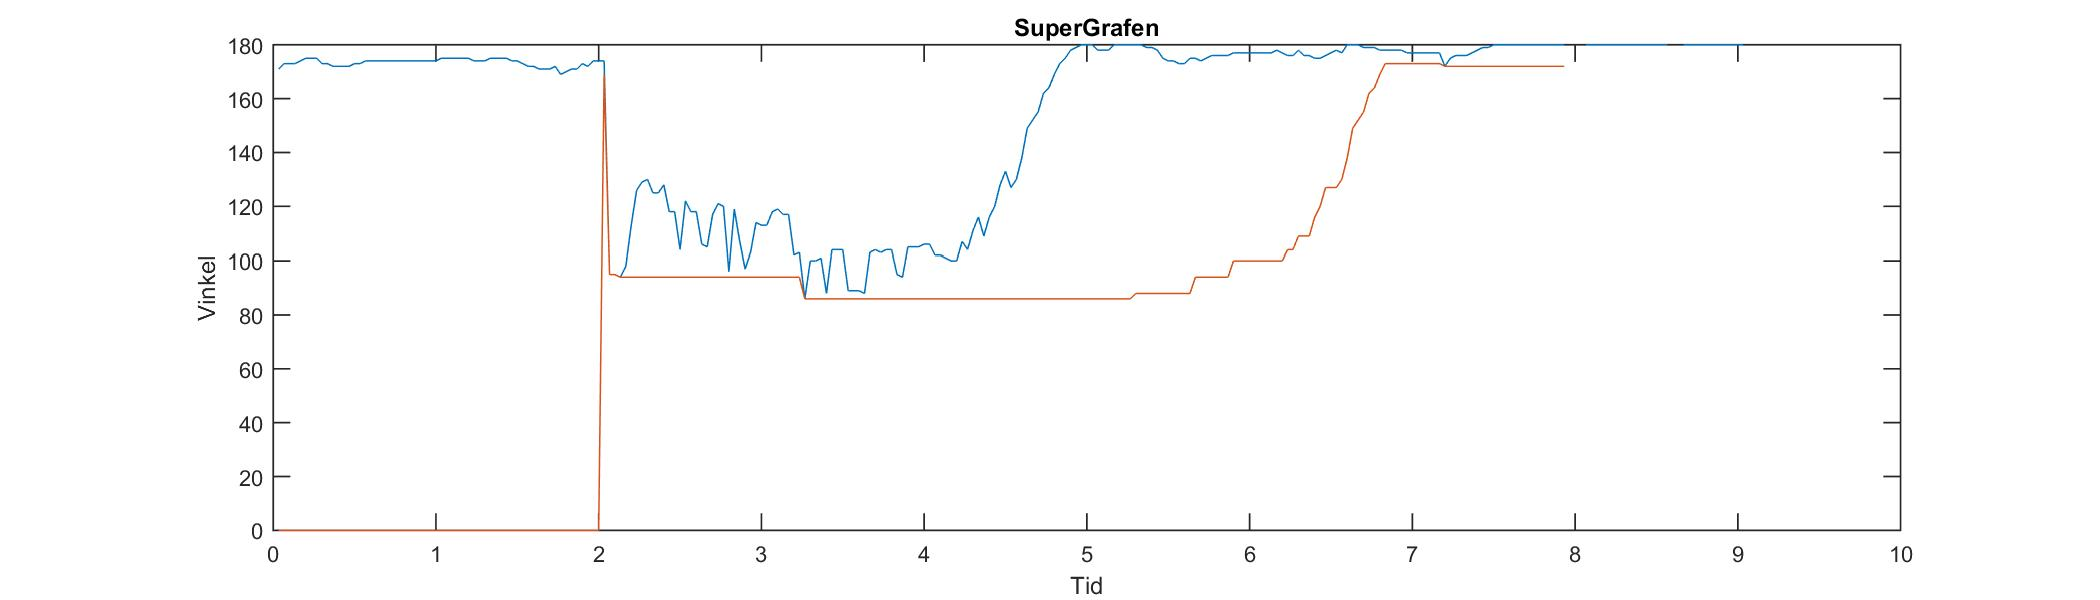
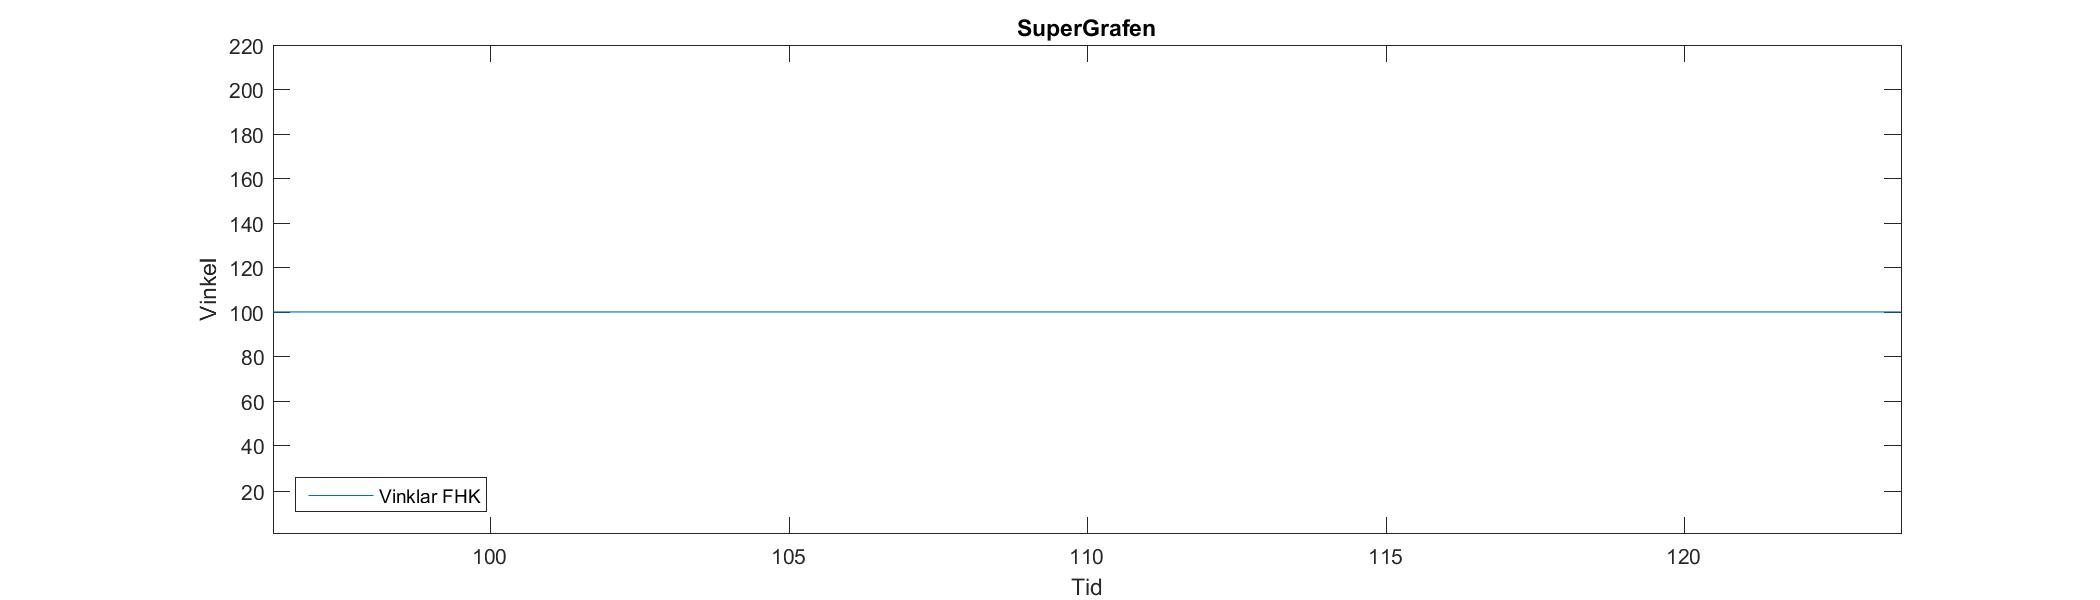
Snyggat till plot

diff --git a/RoadRunners/SkeletonBasics-WPF/MainWindow.xaml.cs b/RoadRunners/SkeletonBasics-WPF/MainWindow.xaml.cs
@@ -357,22 +357,7 @@ namespace Microsoft.Samples.Kinect.SkeletonBasics
         
              vinkelImage.Source = _image;
         }
-        /*
-        private void CompositionTargetRendering1() //object sender, EventArgs e
-        {
-            BitmapImage image = new BitmapImage();
-            string pathImage = Path.Combine(Directory.GetCurrentDirectory());
 
-            image.BeginInit();
-            image.CacheOption = BitmapCacheOption.None;
-            image.UriCachePolicy = new System.Net.Cache.RequestCachePolicy();
-            image.CacheOption = BitmapCacheOption.OnLoad;
-            image.CreateOptions = BitmapCreateOptions.IgnoreImageCache;
-            image.UriSource = new Uri(pathImage + @"\..\..\Vinkelgraf.jpeg", UriKind.RelativeOrAbsolute);
-            image.EndInit();
-
-            vinkelImage.Source = image;
-        }*/
 
         /// <summary>
         /// Draws a skeleton's bones and joints
@@ -499,9 +484,11 @@ namespace Microsoft.Samples.Kinect.SkeletonBasics
         // -------------------------------------------------------------------------------------//
 
         Thread heartrateThread;
+        Thread plotAnglesThread;
 
         // Skapar listorna som behövs
-        public List<double> vinklar = new List<double>();
+        public List<double> vinklar_FHK = new List<double>();
+        public List<double> vinklar_SHK = new List<double>();
         public List<double> tidsLista = new List<double>();
         public List<double> minimumlista_FHK = new List<double>();
         public List<double> minimumlistahelp_FHK = new List<double>();
@@ -569,6 +556,7 @@ namespace Microsoft.Samples.Kinect.SkeletonBasics
         // Beräknar vinklar beroende på checkboxar
         public void CalculateAngles(Skeleton skeleton, DrawingContext drawingcontext)
         {
+            plotAngles();
 
             // Definerar jointar
             Joint kneeLeft = skeleton.Joints[JointType.KneeLeft];
@@ -624,7 +612,7 @@ namespace Microsoft.Samples.Kinect.SkeletonBasics
                 double SHK_angle = Math.Ceiling((Math.Acos((Math.Pow(HipKnee_Length, 2) + Math.Pow(HipShoulder_Length, 2)
                     - Math.Pow(KneeShoulder_Length, 2)) / (2 * HipKnee_Length * HipShoulder_Length))) * (180 / Math.PI));
 
-                vinklar.Add(SHK_angle);
+                vinklar_SHK.Add(SHK_angle);
                 minimumlistahelp_SHK.Add(SHK_angle);
 
                 contAngle_SHK.Text = Convert.ToString(meanList_FHK.Count);
@@ -655,7 +643,7 @@ namespace Microsoft.Samples.Kinect.SkeletonBasics
                 double FHK_angle = Math.Ceiling((Math.Acos((Math.Pow(HipKnee_Length, 2) + Math.Pow(KneeFoot_Length, 2)
                     - Math.Pow(HipFoot_Length, 2)) / (2 * HipKnee_Length * KneeFoot_Length))) * (180 / Math.PI));
 
-                vinklar.Add(FHK_angle);
+                vinklar_FHK.Add(FHK_angle);
                 minimumlistahelp_FHK.Add(FHK_angle);
                 if (meanArray_FHK != null)
                 {
@@ -674,17 +662,17 @@ namespace Microsoft.Samples.Kinect.SkeletonBasics
                 }
             }
 
-            sampleToTime = vinklar.Count;
+            sampleToTime = vinklar_FHK.Count;
             tidsLista.Add(sampleToTime / 30);
 
-              
+              // KOLLA PÅ TIDSLISTA, beror bara på fhk nu :)
             
             // tar ut lägsta vinkel
-            if (minimumlista_FHK.Count > 60)
+            if (tidsLista.Count > 60)
             {
                 //Knävinkel
                 lagsta_varde_FHK = minimumlistahelp_FHK.Min();
-                minimumlistahelp_FHK.Add(lagsta_varde_FHK);
+                minimumlista_FHK.Add(lagsta_varde_FHK);
                 smallestAngle_FHK.Text = Convert.ToString(lagsta_varde_FHK);
                 minimumlistahelp_FHK.Clear();
                 //Höftvinkel
@@ -698,6 +686,8 @@ namespace Microsoft.Samples.Kinect.SkeletonBasics
                 meanAngleFunc(meanList_SHK);
                 ++i;
 
+          
+
                 readPulseData();
 
             }
@@ -707,7 +697,7 @@ namespace Microsoft.Samples.Kinect.SkeletonBasics
                 minimumlista_SHK.Add(lagsta_varde_SHK);
             }
         }
-
+        
         // För att ta ut medelvinkel
         private void meanAngleFunc(List<double> minList)
         {
@@ -738,8 +728,8 @@ namespace Microsoft.Samples.Kinect.SkeletonBasics
         {
             //MATLABPLOT
             //Skickar data till matlab i ett specifikt satt intervall
-            if (updateMatlab < vinklar.Count)
-            {
+          
+            
                 // Change to the directory where the function is located 
                 var path = Path.Combine(Directory.GetCurrentDirectory());
                 matlab.Execute(@"cd " + path + @"\..\..");
@@ -750,15 +740,15 @@ namespace Microsoft.Samples.Kinect.SkeletonBasics
                 // Call the MATLAB function myfunc! Kastar även eventuella runtimefel
                 try
                 {
-                    CompositionTargetRendering();
+                    
                     matlab.Feval("myfunc", 1, out result, list1.ToArray(), list2.ToArray(), list3.ToArray());
                 }
                 catch (System.Runtime.InteropServices.COMException)
                 {
 
                 }
-                updateMatlab = updateMatlab + 30;
-            }
+
+            
         }
 
 
@@ -791,8 +781,8 @@ namespace Microsoft.Samples.Kinect.SkeletonBasics
         // Ritar ut skelettmodellen på bilden
         private void DrawBonesAndJoints(Skeleton skeleton, DrawingContext drawingContext)
         {
-            
-         
+
+
             // Render Torso
             this.DrawBone(skeleton, drawingContext, JointType.Head, JointType.ShoulderCenter);
             this.DrawBone(skeleton, drawingContext, JointType.ShoulderCenter, JointType.ShoulderLeft);
@@ -951,8 +941,11 @@ namespace Microsoft.Samples.Kinect.SkeletonBasics
 
         private void display_angle_Click(object sender, RoutedEventArgs e)
         {
-            // printMatLab(tidsLista, vinklar, minimumlista);         
-            // printMatLab1("testfunc", "1",2,"3" );
+            CompositionTargetRendering();
+            plotAnglesThread = new Thread(() => printMatLab(tidsLista, minimumlista_FHK, minimumlista_SHK));
+            plotAnglesThread.Start();
+
+           //  printMatLab(tidsLista, vinklar_FHK, vinklar_SHK);               
         }
         
         private void setting_Click(object sender, RoutedEventArgs e)
@@ -967,7 +960,10 @@ namespace Microsoft.Samples.Kinect.SkeletonBasics
                 try
                 {
                 String line = File.ReadLines(@"C:\Users\Mattias\Source\Repos\RR\RoadRunners\SkeletonBasics-WPF\pulsdata1.txt").Last();
-                decimal pulsTodec = Decimal.Parse(line, NumberStyles.Float,CultureInfo.InvariantCulture);
+                double pulsTodec = Double.Parse(line, NumberStyles.Float,CultureInfo.InvariantCulture);
+
+                pulseList.Add(Math.Ceiling(pulsTodec));
+
                 pulstest.Text = Convert.ToString(Math.Ceiling(pulsTodec));  
 
                 }
@@ -985,7 +981,19 @@ namespace Microsoft.Samples.Kinect.SkeletonBasics
            // SaveData win2 = new SaveData();
             saveData.Show();
   
-    }
+        }
+
+        public void plotAngles()
+        {
+            if (vinklar_SHK.Count() > updateMatlab || vinklar_FHK.Count() > updateMatlab)
+            {
+                CompositionTargetRendering();
+                plotAnglesThread = new Thread(() => printMatLab(tidsLista, vinklar_FHK, vinklar_SHK));
+                plotAnglesThread.Start();
+                updateMatlab = updateMatlab + 60;
+            }
+      
+        }
     }
 
     }

diff --git a/RoadRunners/SkeletonBasics-WPF/heartRateCalc.m b/RoadRunners/SkeletonBasics-WPF/heartRateCalc.m
@@ -116,7 +116,8 @@ if (shimmer.connect)                                                       % TRU
        
                
         h.figure1=figure('Name','Shimmer ECG and Heart Rate signals');     % create a handle to figure for plotting data from shimmer
-     %   set(h.figure1, 'Position', [100, 500, 800, 400]);
+      
+          set(gcf, 'visible', 'off')
         
         elapsedTime = 0;                                                   % reset to 0    
         tic;                                                               % start timer

diff --git a/RoadRunners/SkeletonBasics-WPF/ChildWindow.xaml.cs b/RoadRunners/SkeletonBasics-WPF/ChildWindow.xaml.cs
@@ -52,18 +52,6 @@ namespace Microsoft.Samples.Kinect.SkeletonBasics
             }
             
 
-
-
-            /*
-            if (comport == "0" || durationtime == 0 || fileName == "" || durationContent.Text == "")
-            {
-                errorText.Text = "Du måste fylla i alla fälten korrekt.";
-            }
-            else
-            {
-                this.Close();
-            }
-            */
         }
 
         private void helpButton_Click(object sender, RoutedEventArgs e)

diff --git a/RoadRunners/SkeletonBasics-WPF/myfunc.m b/RoadRunners/SkeletonBasics-WPF/myfunc.m
@@ -1,7 +1,7 @@
 function [x] = myfunc(a,b,c) 
 % a = Tid 
-% b = vinklar
-% c = minsta vinkel
+% b = vinklar_FHK
+% c = vinklar_SHK
 h = figure(1); set(gcf,'visible','off')
 
 h.PaperUnits = 'inches';
@@ -11,6 +11,7 @@ x = plot (a,b,a,c);
 title('SuperGrafen');
 xlabel('Tid');
 ylabel('Vinkel');
+legend('Vinklar FHK', 'Vinklar SHK', 'location', 'southwest');
 
 saveas(h, 'Vinkelgraf.jpeg')
 close(h);
